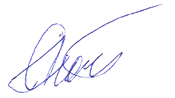
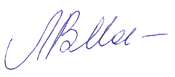
new buhg

Changed region(s): [[0.0, 0.026, 0.9429, 0.961], [0.8, 0.4156, 0.9714, 0.4935], [0.0571, 0.4935, 0.0857, 0.5455]]

diff --git a/application/views/customer_interface/customer-order-invoice.php b/application/views/customer_interface/customer-order-invoice.php
@@ -90,7 +90,7 @@
 							</tr>
 							<tr>
 								<td>Главный бухгалтер</td>
-								<td>Любчич С.Ю.</td>
+								<td>Маликова Л.В.</td>
 							</tr>
 						</tbody>
 					</table>

diff --git a/application/views/physical_interface/documents/invoice.php b/application/views/physical_interface/documents/invoice.php
@@ -90,7 +90,7 @@
 							</tr>
 							<tr>
 								<td>Главный бухгалтер</td>
-								<td>Любчич С.Ю.</td>
+								<td>Маликова Л.В.</td>
 							</tr>
 						</tbody>
 					</table>
